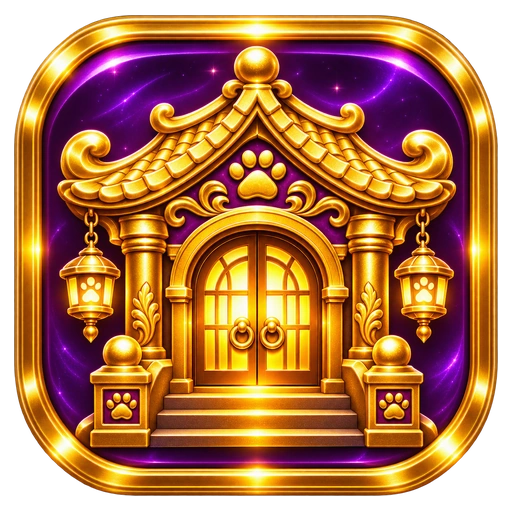
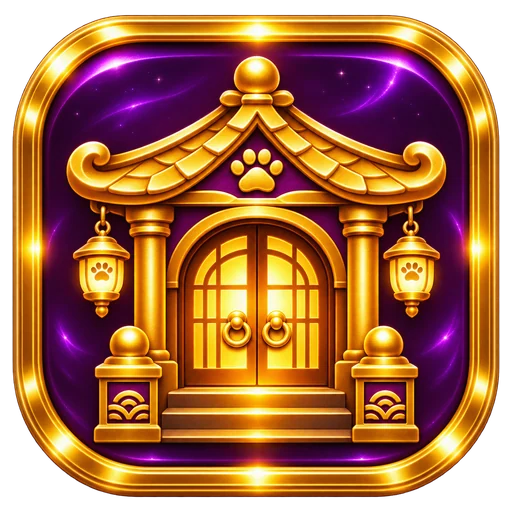
Integrate approved simplified royal seals and textured violet lacquer

diff --git a/src/royal-navigation.css b/src/royal-navigation.css
@@ -1,8 +1,8 @@
 /* Positioning-only shell. No enclosing frame, texture or visible panel. */
 .app-shell:not(.page-home) .royal-nav-shell{
   --royal-seal:40px;--royal-bar:40px;--royal-toggle:54px;
-  /* Actual symbol-free lacquer extracted from the approved music medallion.
-     Shared across both navigation families, the switch, and tab states. */
+  /* Textured lacquer sampled from the approved updated Home seal.
+     Shared with the matching Resources seal, navigation families and toggle. */
   --royal-lacquer:url("/rosieverse/ui/royal-nav/medallion-lacquer.webp");
   --royal-enamel:var(--royal-lacquer) center / 100% 100% no-repeat padding-box;
   --royal-rim:linear-gradient(180deg,#fff3b0 0%,#f8d37b 14%,#cc8014 34%,#8c4006 51%,#d89223 70%,#ffe09a 88%,#b66c0d 100%) border-box;
@@ -40,7 +40,7 @@
 }
 .app-shell:not(.page-home) .royal-nav-shell > .bottom-nav > button.active::before{
   inset:0 1px!important;border:1px solid #f0c466;
-  background:var(--royal-lacquer) center / 100% 100% no-repeat;
+  background:var(--royal-lacquer) 13% center / auto 100% no-repeat;
   box-shadow:inset 0 1px 0 #f9d2ff30,inset 0 0 5px #09010dba,0 0 3px #e5b85844;
 }
 .app-shell:not(.page-home) .royal-nav-shell > .bottom-nav > button.active::after{content:none;}
@@ -71,7 +71,7 @@
   grid-area:toggle;display:flex;flex-direction:column;align-items:center;justify-content:center;
   gap:0;width:var(--royal-toggle)!important;height:34px!important;min-height:0!important;
   padding:0 6px 0 0!important;border:2px solid transparent!important;border-radius:10px!important;
-  background:var(--royal-enamel),var(--royal-rim)!important;
+  background:var(--royal-lacquer) 13% center / auto 100% no-repeat padding-box,var(--royal-rim)!important;
   color:#ffdf96!important;font:700 9px/1 Georgia,serif!important;overflow:visible!important;
   box-shadow:inset 0 0 0 1px #c68a3a66,inset 0 1px 1px #13001680,inset 0 -1px 1px #b76f9e38,0 2px 5px #0008!important;
 }
@@ -86,7 +86,7 @@
 @media(hover:hover){
  .app-shell:not(.page-home) .royal-nav-shell .bottom-nav > button:not(.active):hover::before,
  .app-shell:not(.page-home) .royal-nav-shell .bottom-nav > button:not(.active):focus-visible::before{
-   background:var(--royal-lacquer) center / 100% 100% no-repeat;border-color:#b88a42;box-shadow:inset 0 1px 0 #f9d2ff20;
+   background:var(--royal-lacquer) 13% center / auto 100% no-repeat;border-color:#b88a42;box-shadow:inset 0 1px 0 #f9d2ff20;
  }
  .app-shell:not(.page-home) .royal-nav-shell > :is(.bottom-side-seal,.nav-family-toggle):hover{filter:brightness(1.14) drop-shadow(0 0 4px #f2c26970);}
 }

diff --git a/docs/Royal-Navigation.md b/docs/Royal-Navigation.md
@@ -10,3 +10,6 @@ Desktop shell reduced from 846px to 650px maximum; bar 40px high; both seals 40p
 
 ## Matched lacquer
 The shared navigation and switch background now uses a 640×96 WebP extracted from the symbol-free purple regions of the exact approved music medallion (source git blob c3a230dc72ea1560097a8becc006d6517b806f36), resampled and blended into an elongated strip with localized reflections. Original medallions and icons are unchanged. Compact dimensions retained. The texture is a separate asset, not a flattened menu.
+
+## Final matched seals and richer lacquer
+Approved replacement Home and Resources seals normalized to the same 512×512 transparent canvas with equal optical bounds. Home remains text-free; Resources uses the crowned R without a small baked label. New 768×96 lacquer texture is sampled from the approved Home artwork, mirrored into a continuous wide strip and toned down for legibility. The small switch and active tab crop the same material instead of squeezing it horizontally. Paw, music, remaining icons, layout dimensions and route handlers are unchanged. Preview branch only.
